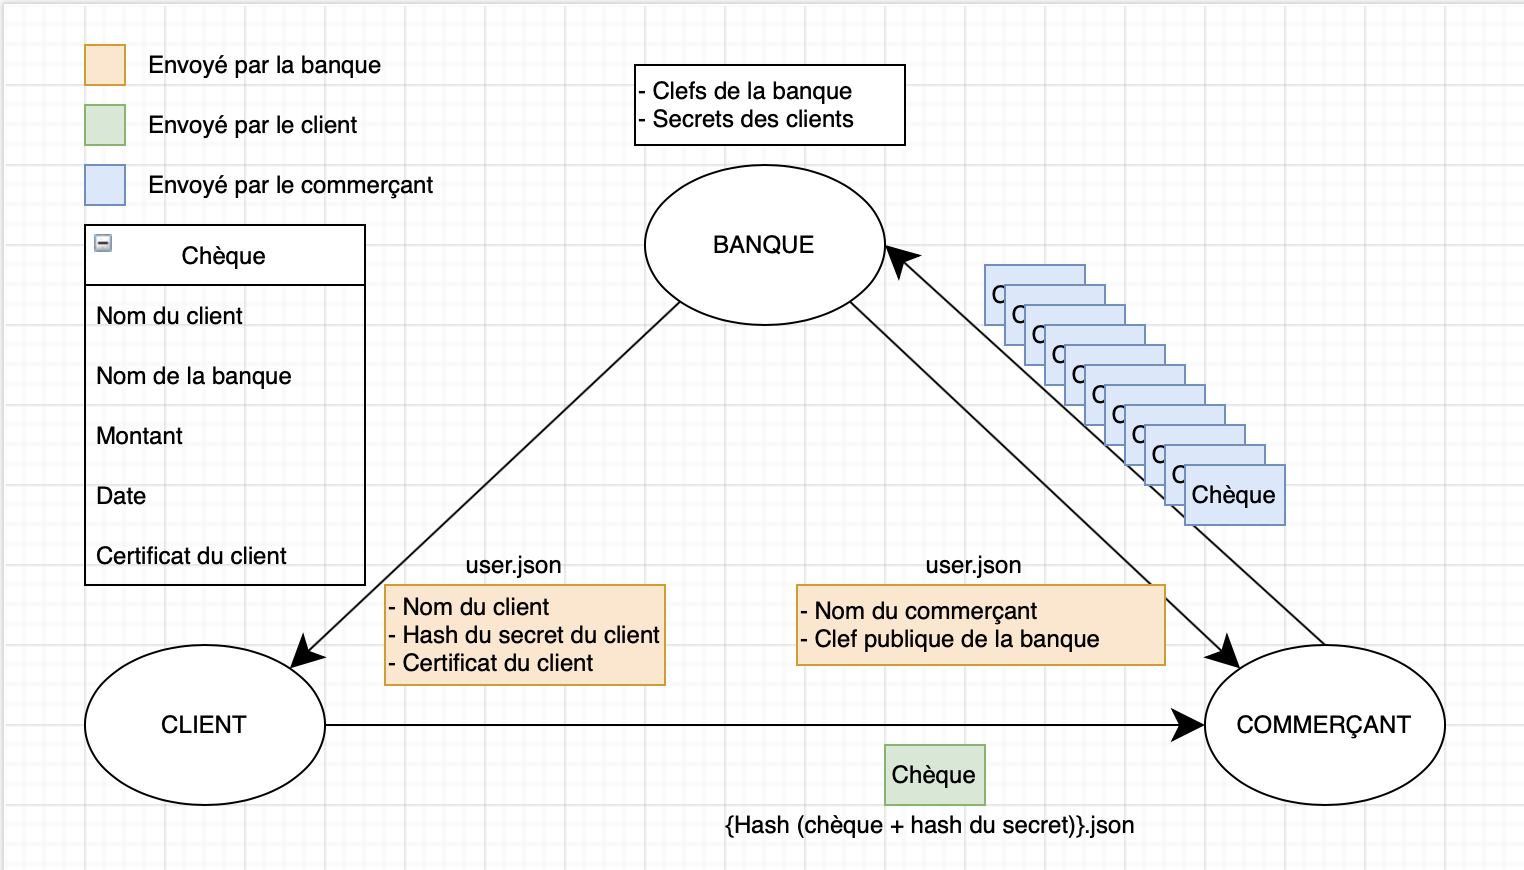
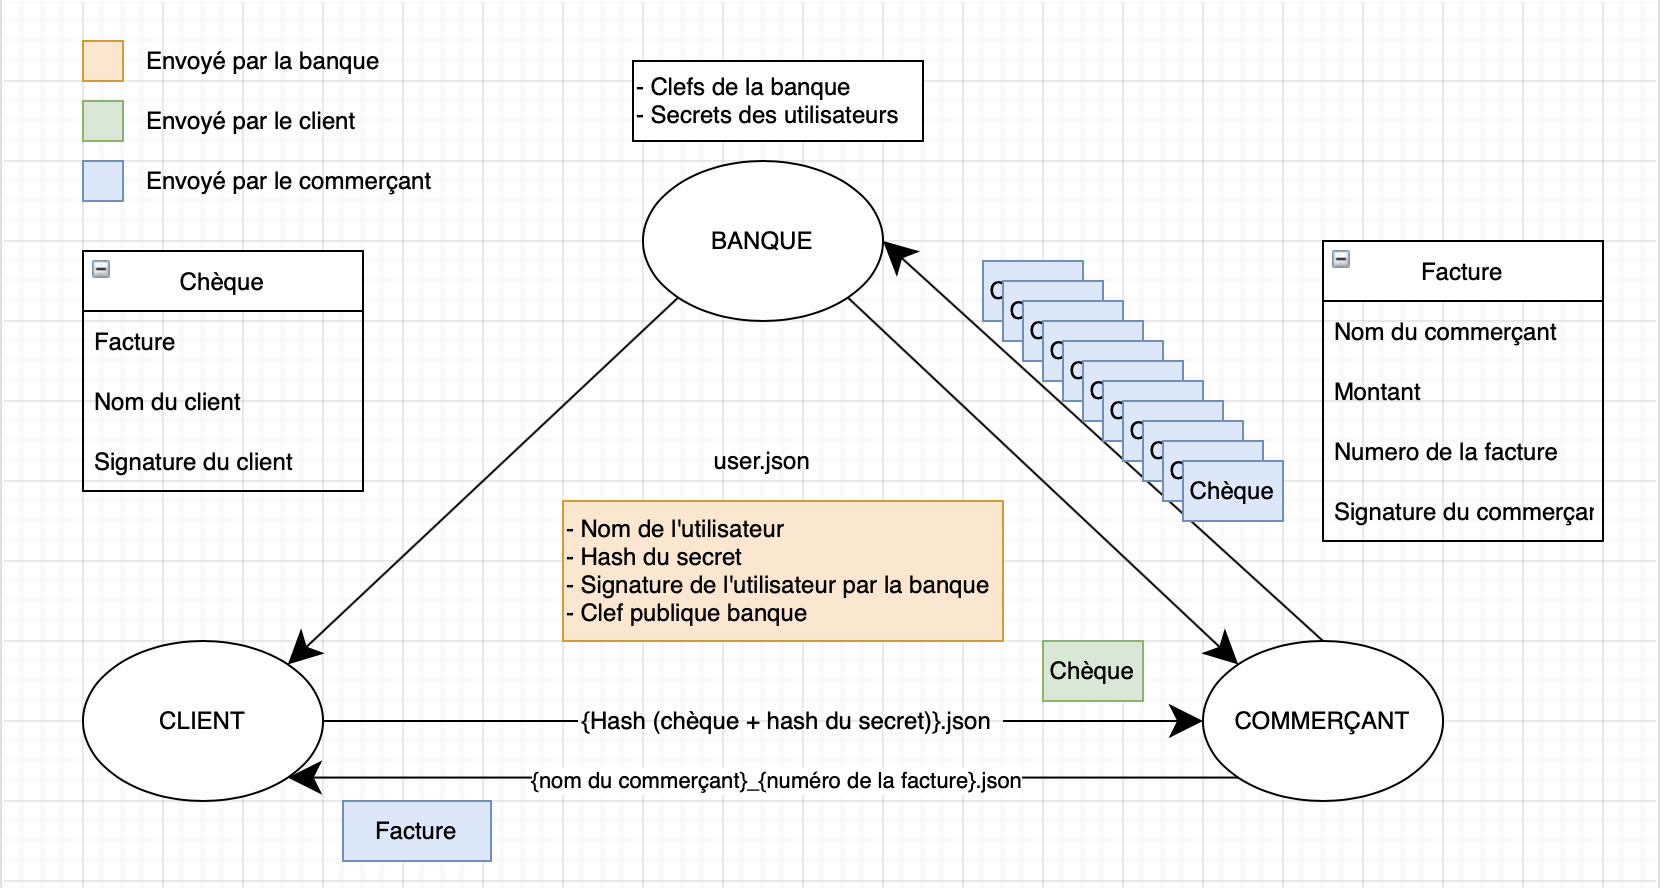
update doc/archi.png

diff --git a/README.md b/README.md
@@ -32,38 +32,45 @@ Voici une schema du fonctionnement de notre protocole.
 
 > Un certificat est la signature, avec la clef privée de la banque, du nom du client.
 
-### Création d'un client
+### Création d'un utilisateur
 
-Lors de la création d'un client, la banque transmet à celui-ci le fichier _user.json_ contenant:
+Lors de la création d'un utilisateur, la banque transmet à celui-ci le fichier _user.json_ contenant:
 
-- Le nom du client
-- Le hash du secret du client généré par la banque
-- Le certificat du client qui est la signature, avec la clef privée de la banque, du nom du client
+- Le nom de l'utilisateur
+- Le hash du secret de l'utilisateur généré par la banque
+- La signature du nom de l'utilisateur par la banque
+- La clef publique de la banque
 
-### Création d'un commerçant
+### Emission d'une facture par la banque
 
-Lors de la création d'un commerçant, la banque transmet à celui-ci le fichier _user.json_ contenant:
+Une facture est un fichier _json_ contenant: 
 
 - Le nom du commerçant
-- La clef publique de la banque
+- Le montant de la facture
+- Le numéro de la facture
+- La signature du commerçant par la banque
+
+Le nom du fichier transmis du commerçant au client est sous la forme de {Le nom du commerçant}_{le numéro de la facture}.json.
 
 ### Emission d'un chèque par le client
 
 Un chèque est un fichier _json_ contenant:
 
+- Les informations de la facture reçues du commerçant
 - Le nom du client
-- Le nom de la banque
-- Le montant
-- La date d'émission
 - Le certificat du client
 
 Le nom du fichier transmis au commerçant est le hash du resultat de la concatenation du chèque et du hash du secret du client.
 
-Cette façon de nommé le fichier du chèque nous permettra de savoir si le chèque a été modifié au cours de son transit vers la banque car seul le client émetteur du chèque et la banque possèdent le hash du secret permettant retrouver le nom du chèque.
+Cette façon de nommer le fichier du chèque nous permettra de savoir si le chèque a été modifié au cours de son transit vers la banque car seul le client émetteur du chèque et la banque possèdent le hash du secret permettant retrouver le nom du chèque.
 
 ### Vérification de la validité d'un chèque par le commerçant
 
+Tout d'abord, le commerçant extrait les informations lui permettant d'obtenir une facture qu'il vérifie si celle-ci n'a jamais déjà été encaissée et à partir du hash de cette facture obtenue, il vérifie que les informations sont correctes.
+
 À partir de la clef publique de la banque et du nom du client, le commerçant peut verifier la signature du client et donc s'assurer que le client émetteur du chèque est bel et bien client de la banque. Aussi le commerçant vérifie qu'il est le destinataire du chèque.
+
+Il est impossible qu'on encaisse 2 fois le même chèque car une fois qu'un chèque est vérifié et validé, la facture liée à ce chèque est effacée donc les autres chèques n'auront plus de factures correspondantes dans la base de données.
 
 ### Envoi des chèques à la banque
 
@@ -73,6 +80,8 @@ Tous les chèques valides sont envoyés à la banque.
 
 À partir du secret du client émetteur du chèque et du chèque, la banque peut reconstituer le nom du chèque (le hash du resultat de la concatenation du chèque et du hash du secret du client).
 Si cette reconstitution est réussie alors le chèque est valide car la banque est sûre que le chèque n'a pas été modifié depuis l'émission du chèque par le client.
+
+La banque archive les chèques qu'elle à déjà encaissée pour ne pas avoir à encaisser 2 fois le même chèque.
 
 ## Utilisation du programme
 
@@ -106,15 +115,19 @@ Dans le dossier _bank_, lancez les commandes suivantes:
 
 Dans le dossier _client_, lancez les commandes suivantes:
 
+- Création d'un client
+  ```sh
+  $ ./main.py init
+  ```
+- Suppression d'un client
+  ```sh
+  $ ./main.py clean
+  ```
 - Émission d'un chèque
   ```sh
-  $ ./main -amount <montant> -to <commerçant>
+  $ ./main.py check <nom du commerçant> <num. de facture>
   ```
   > Les chèques seront dans le sous dossier _checks_ du dossier _shop_
-- Obtenir de l'aide
-  ```sh
-  $ ./main -h
-  ```
 
 ### commerçant
 
@@ -122,24 +135,30 @@ Dans le dossier _shop_, lancez les commandes suivantes:
 
 - Initialisation
   ```sh
-  $ ./main init
+  $ ./main.py init
   ```
 - Suppression des dossiers créés lors de l'initialisation
 
   ```sh
-  $ ./main clean
+  $ ./main.py clean
   ```
 
 - Vérification des chèques
 
   ```sh
-  $ ./main verify
+  $ ./main.py verify
   ```
 
   > Les chèques acceptés seront dans les dossier _accepted_ et les autres dans le dossier _rejected_.
 
 - Envoi des chèques
   ```sh
-  $ ./main send
+  $ ./main.py checks
   ```
   > Les chèques seront dans le sous dossier _checks_ du dossier _bank_.
+
+
+- Envoi d'une facture
+  ```sh
+  $ ./main.py bill <montant de la facture>
+  ```
